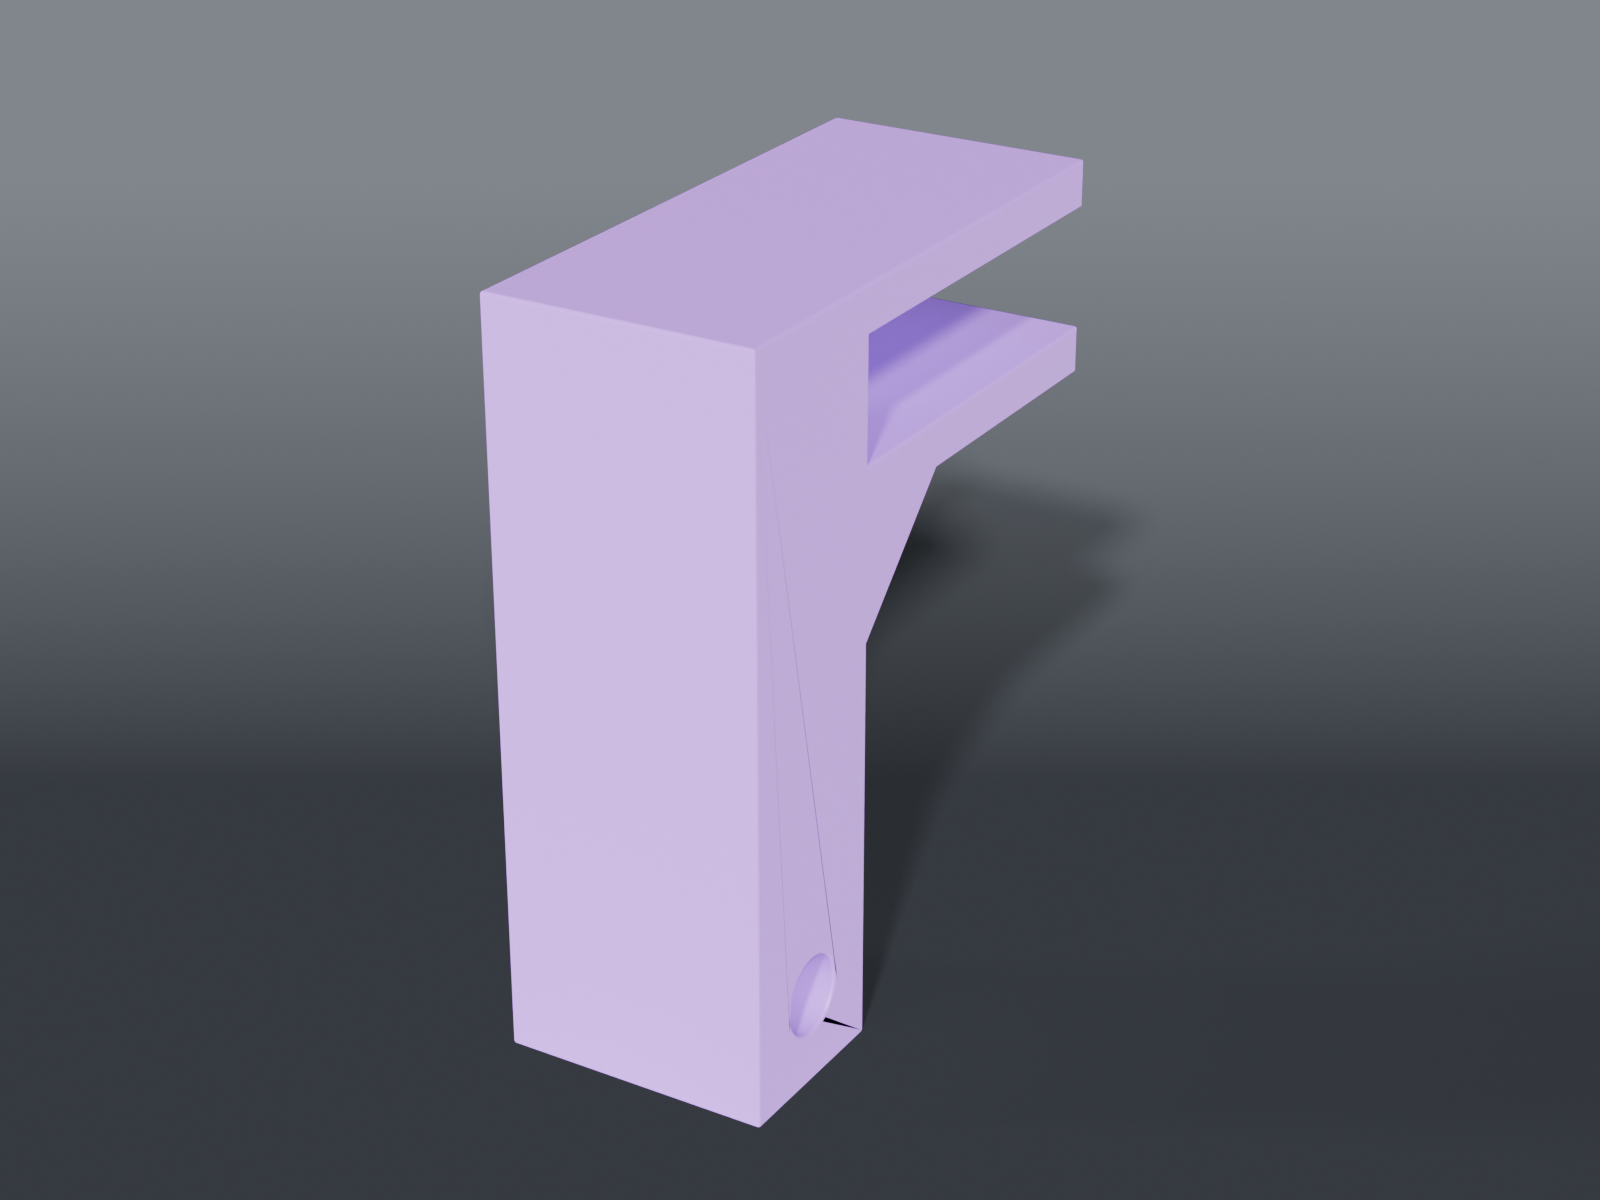
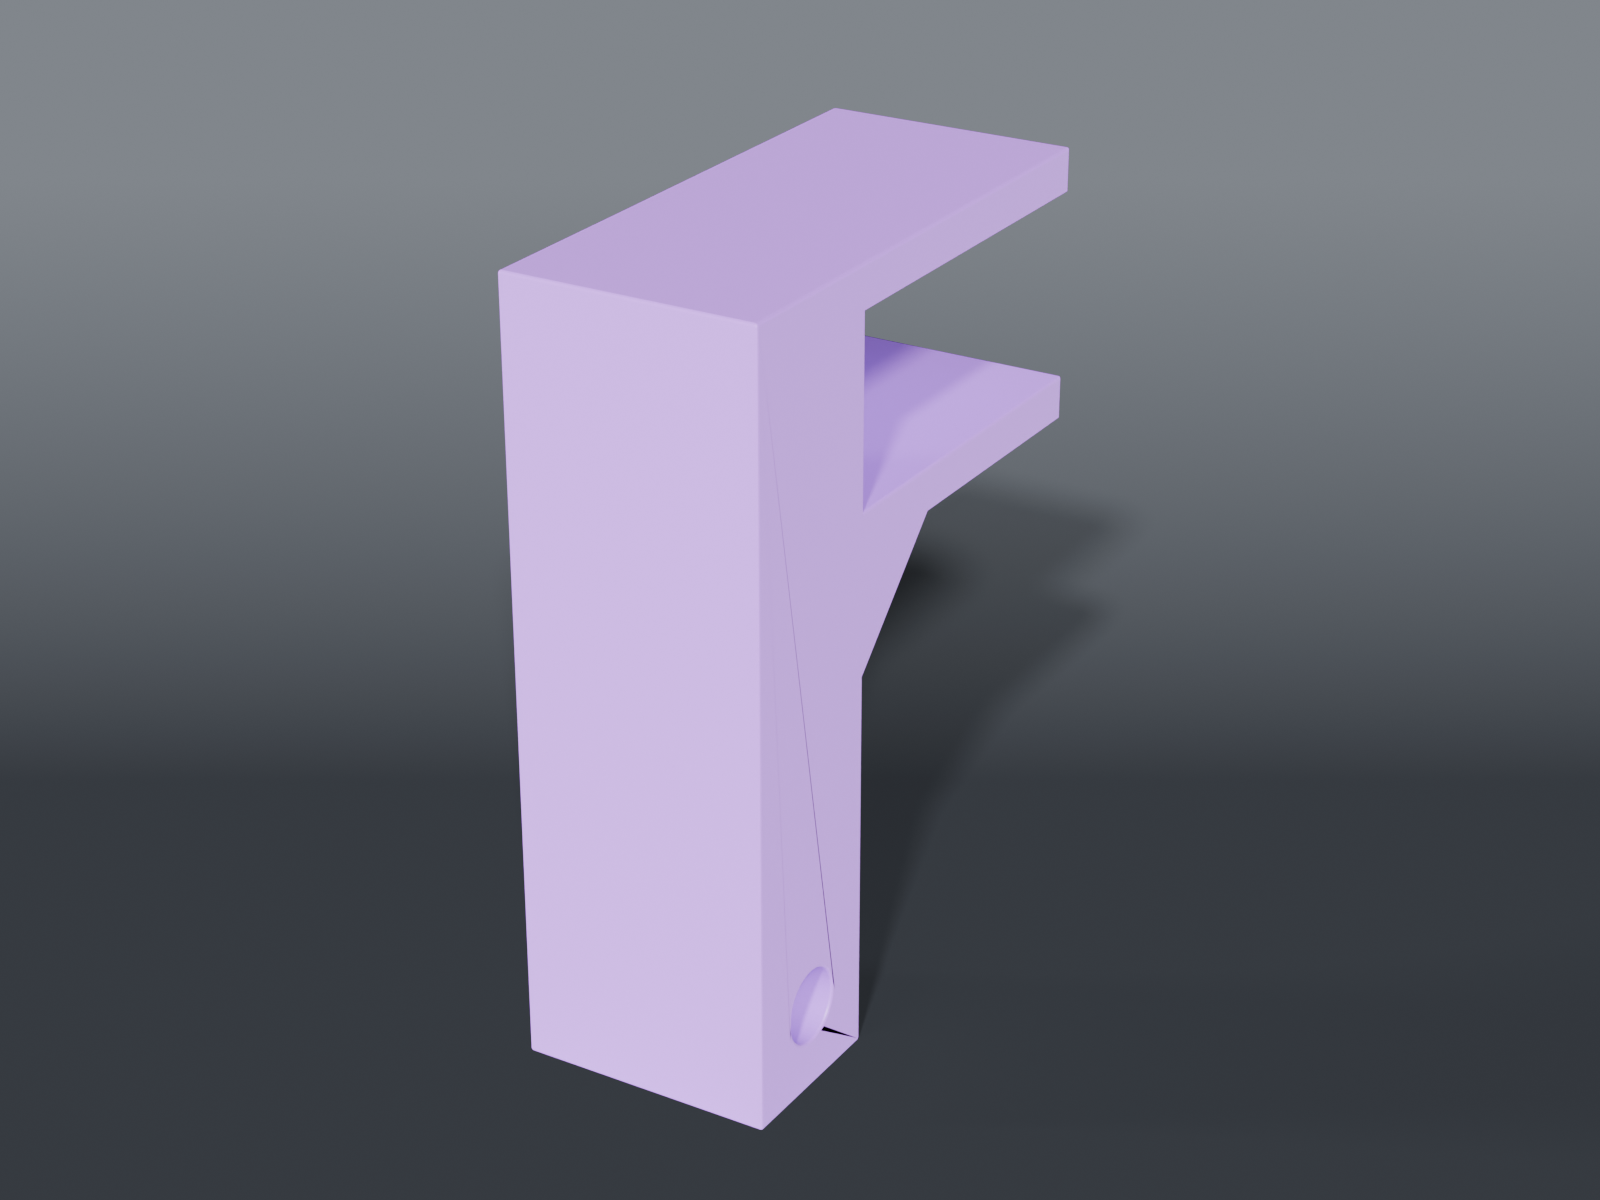
fix(reel-brackets): shelf measured at 21.12, not the 12.7 estimate

diff --git a/reel-brackets/README.md b/reel-brackets/README.md
@@ -25,16 +25,27 @@ is **wanted** for wire — a free-spinning spool overruns and birdnests — and 
 
 | File | What | Size |
 |---|---|---|
-| `rod_bracket.scad` | shelf clamp + rod bore | 30 × 65.6 × 82.5 mm |
+| `rod_bracket.scad` | shelf clamp + rod bore | 30 × 65.6 × 90.92 mm |
 
 The spine thickness is **derived from the bore**, never set by hand — at 7 mm against an 8.6 mm
 bore the hole cut straight out through both faces and left an open channel a rod would drop out
 of. Anything containing a hole is sized from that hole.
 
-## ⚠ Check before printing two
+## The shelf is measured
 
-`SHELF_T` is **12.7 mm (1/2″) by estimate, not measurement**. The slot is 13.5 mm. If your shelf
-is 15 mm ply or 12 mm MDF it either won't go on or will be loose.
+`SHELF_T = 21.12 mm`, measured 2026-08-25, giving a **21.92 mm slot** with 0.8 mm of clearance so
+it slides on.
+
+It was **12.7 mm (½″) by estimate** until then, and that estimate was wrong by **8.42 mm** — a
+slot cut to it would not have gone onto the shelf at all. This part was deliberately held back
+from release for exactly that reason: a bracket that doesn't clamp isn't a bracket, and it's not
+a dimension a mesh check can catch.
+
+For a different shelf, re-render rather than filing the slot:
+
+```sh
+openscad -o rod_bracket.stl --export-format binstl -D SHELF_T=<yours> rod_bracket.scad
+```
 
 ## Source
 
